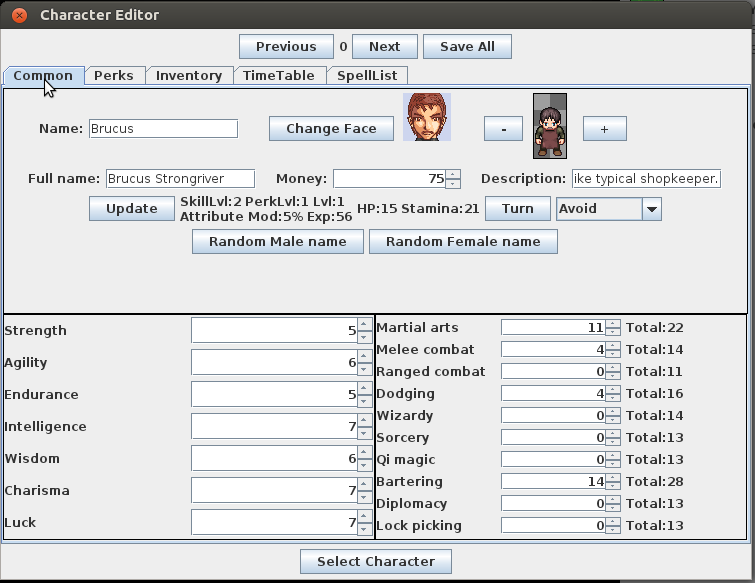
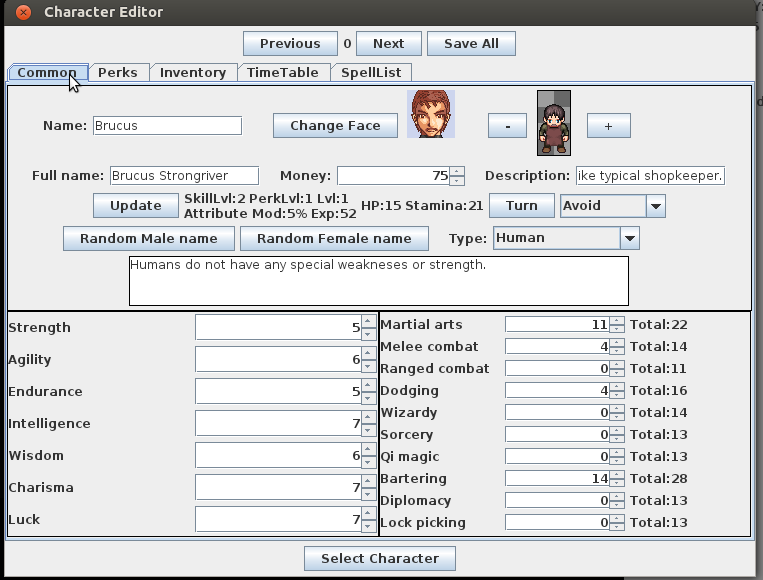
Added tutorial about creature type selection.

Changed region(s): [[0.0, 0.0, 1.0, 0.9931], [0.4265, 0.9621, 0.457, 0.9931]]

diff --git a/tutorial.md b/tutorial.md
@@ -541,6 +541,11 @@ Avoid means that NPC tries to avoid combat and does not fight with players.
 Aggressive means that it attacks immediately on players of other characters with
 avoid behaviour. Guard is something which is not tested yet and most likely does not work. 
 
+Type of character is species or race of the creature. Different types have different
+strengths and weakness against attack types. For example undead creatures are
+immune to non-lethal damage. Type also affects what kind of sound effect creature
+is using in combat. Type is simple selected from dropdown menu.
+
 Then attributes and skills works like with player characters. Since this NPC is
 going to be shopkeeper only thing that matters is the bartering.
 
